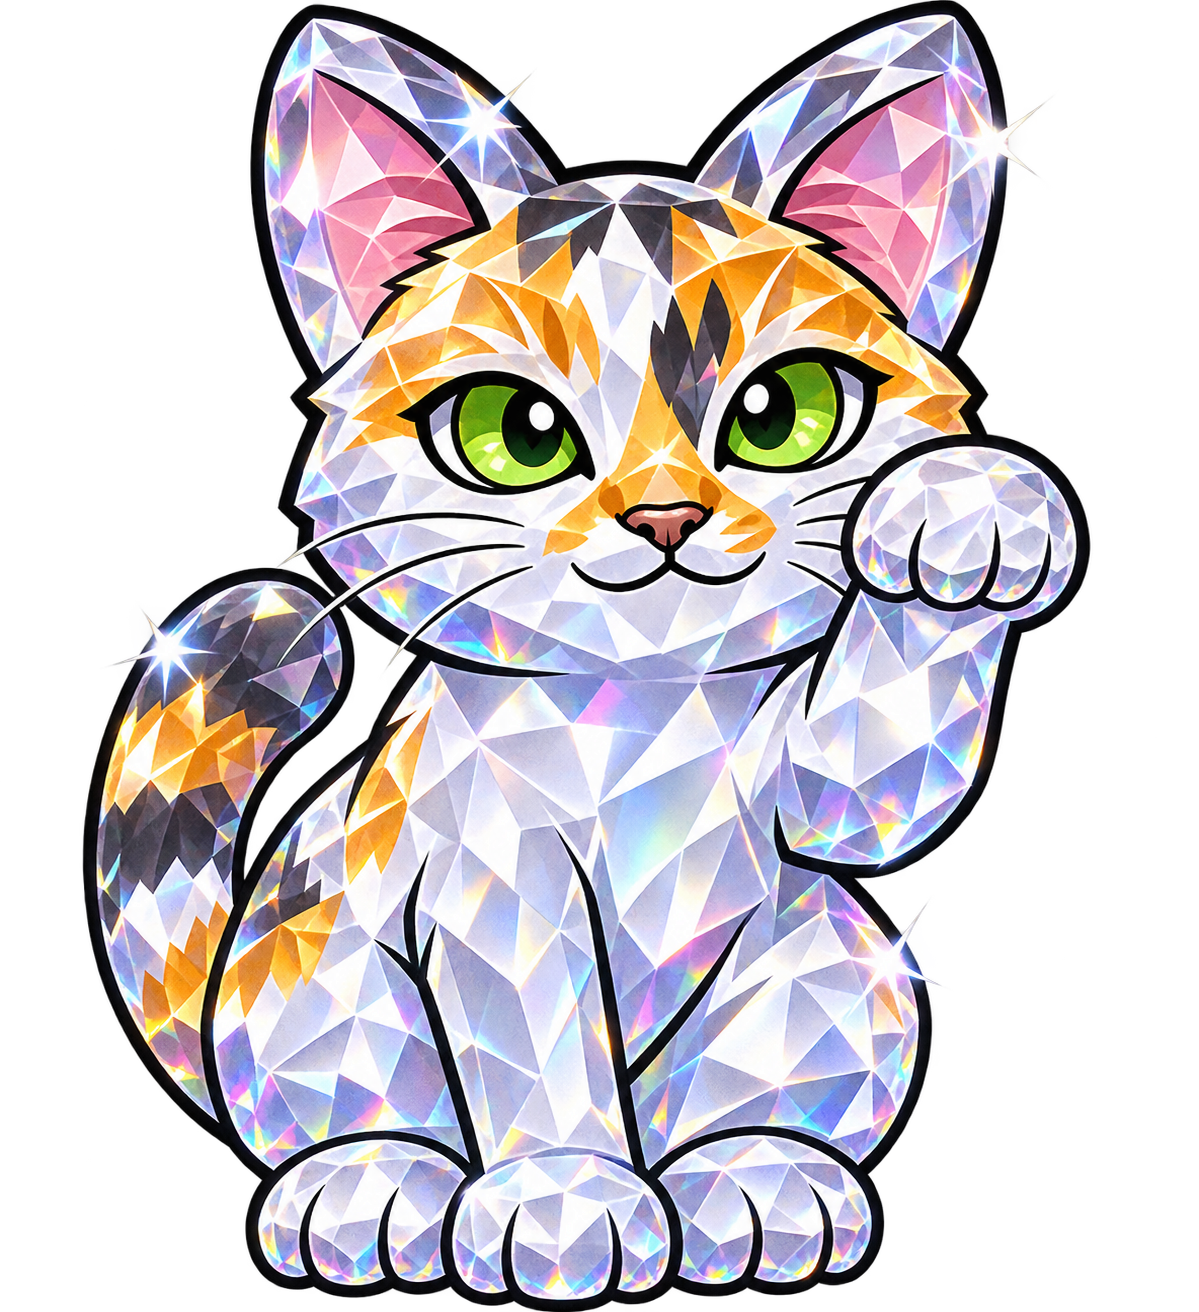
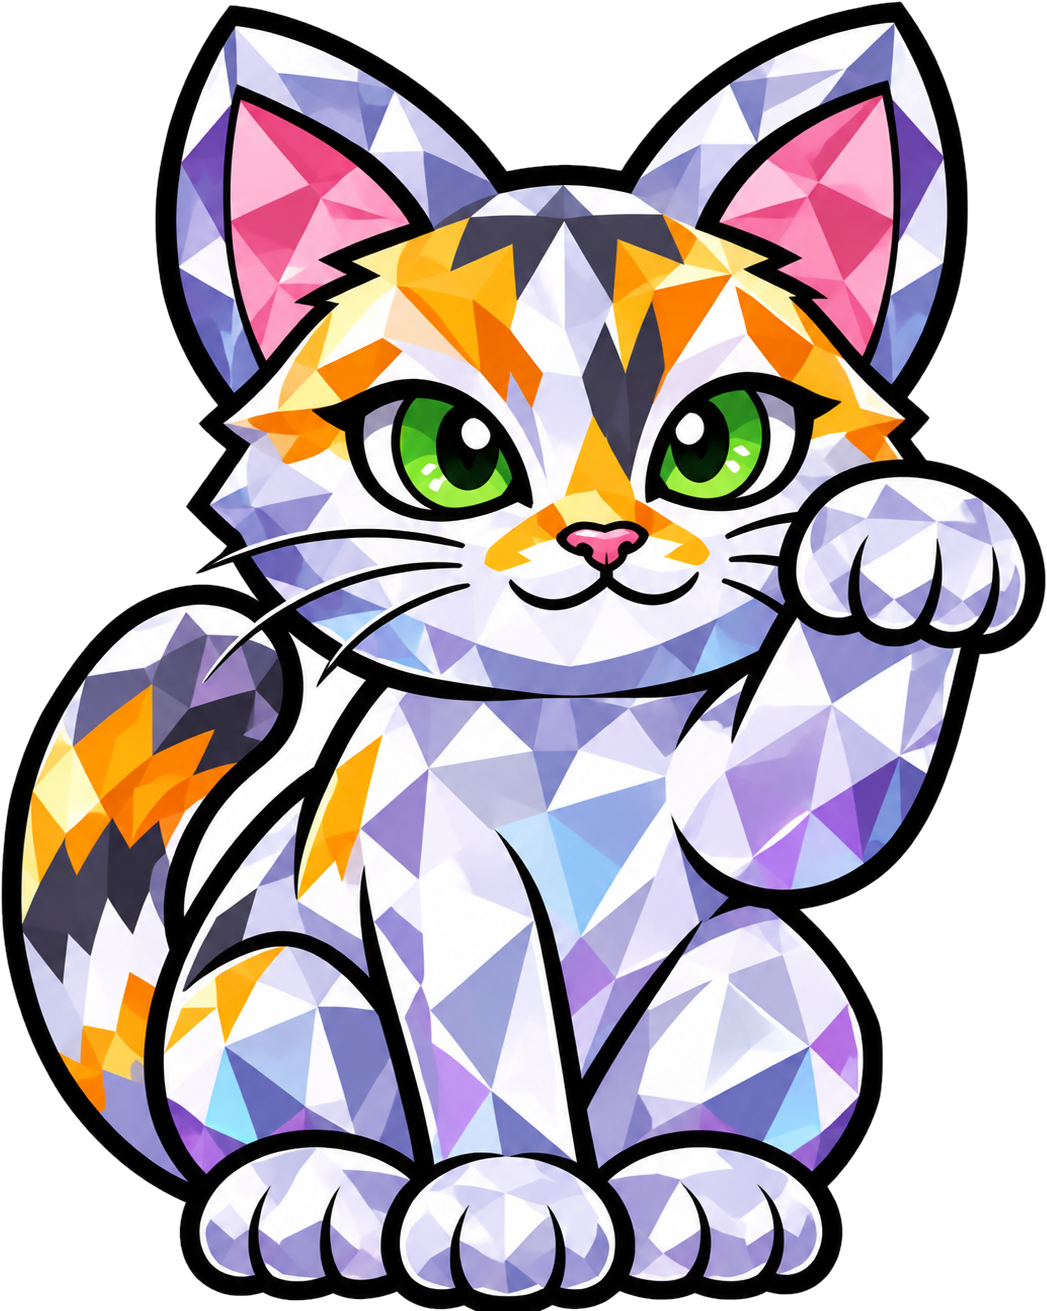
ダイヤモンドキャットの 絵を 新しく(企画者)
Claude-Session: https://claude.ai/code/session_01MXithgTc5umkveoyZShZHQ

diff --git a/docs/VISION.md b/docs/VISION.md
@@ -600,7 +600,7 @@
 - 2026-11-17 企画者「経験値は EXP に 統一」→ 画面の 文字は EXP（スクラッチ・ROYAL JACKPOT の ショップ・MONZ RUMBLE・冒険・麻雀・MYTHCLASH の ごほうび）。経験値スクラッチは「EXPスクラッチ」。
 - 2026-11-19 企画者「MONZ カード すぐ 終わって つまらない ので ジョーカー 2枚」「場の カードに 役が ついた 時 報酬（下は スリーカード）」「ロイヤルストレートフラッシュは 特別な アイテム」→ ジョーカーは 万能（いつでも 出せる・上に 何でも 出せる・役では 好きな カード）。直前に 出した 5枚で 役（同じ カードで 2回は もらわない・強く なれば もらえる）。MONZ コイン：スリーカード 50・ストレート 100・フラッシュ 150・フルハウス 300・フォーカード 500・ストレートフラッシュ 1,000・ロイヤル 3,000（1回の 上限とは べつ）。特別な アイテムは あとで 決める【未確定】。ジョーカーの 絵は 企画者の 絵（同日。2枚とも 同じ 絵）。
 - 2026-11-19 企画者「出した カードじゃ なくて 出す 前に 表示されてる カードが 役が できたら」→ 役は 手札の 5枚で 見る（配り終わった 時・補充した 時）。企画者「役と 配当は 表示してて 欲しい」→ 手札の 下に 役と 配当の 表。企画者「例みたいな 仮の カード 表示」→ 役ごとに 小さな 例の カード【仮】と ジョーカー＝好きな カード。企画者「常に 表示」「真ん中に 山札・出す カード・役の 表」「1列で 上が ロイヤル」「ジョーカーの 説明 いらない」「あくまで 補助」→ 真ん中の 段を 左から 山札・場札・役の 表（小さく）。手札は いちばん 下。同じ カードで 2回は もらわない・強く なれば もらえる。
-- 2026-11-19 企画者「ロイヤルストレートフラッシュの 景品は ダイヤモンドキャット」「お世話画面の アイテムの 家具に 入り ストリートの 家具 扱いで 置ける」「置いて おくと 1日の 0時に 経験値 1000 が 毎日 入る」→ street_diamondcat。置いた 日は 数え はじめ、0時を こえる たびに +1,000（閉じて いた 日数ぶんも。しまうと 数え なおし）。経験値は その時の MONZ に。絵は 企画者の 絵（同日。大きさ 0.85）。
+- 2026-11-19 企画者「ロイヤルストレートフラッシュの 景品は ダイヤモンドキャット」「お世話画面の アイテムの 家具に 入り ストリートの 家具 扱いで 置ける」「置いて おくと 1日の 0時に 経験値 1000 が 毎日 入る」→ street_diamondcat。置いた 日は 数え はじめ、0時を こえる たびに +1,000（閉じて いた 日数ぶんも。しまうと 数え なおし）。経験値は その時の MONZ に。絵は 企画者の 絵（同日。大きさ 0.85）。2026-11-23 企画者「ダイヤモンドキャットは これに」→ 三毛の 招き猫の 絵に（前の 絵は unused/furniture/street_diamondcat_v1.png）。
 - 2026-11-19 企画者「途中で 揃った 役は 最後に まとめて もらえる」→ 役が そろった 時は 表示だけ。ゲームオーバー（やめる も）の 時に まとめて MONZ コイン・ダイヤモンドキャット。結果に「役ボーナス」「ダイヤモンドキャット ×n」。企画者「途中で 閉じても 揃えた やつは あげて」→ そろう たびに 書いて おき、途中で 閉じた 時は 次に 開いた 時に もらう（src/core/cardPending.ts）。
 - 2026-11-19 企画者「ロイヤルストレートフラッシュは 3000 コイン あげないで 猫の 置物だけ」「ダイヤモンドキャットの イメージ画像は 入れて」「お世話画面の 時に ダイヤモンドから EXP 出そう」→ ロイヤルは コイン 0。役の 表と そろった 時に 猫の 絵。0時の EXP は お世話画面で 猫から「+1,000 EXP」と キラキラ（閉じて いた 時は 開いた 時に 出る）。
 - 2026-11-19 企画者「ロイヤルストレートフラッシュは ジョーカー 無しじゃ ないと カウント しない」→ ジョーカーで できた ロイヤルは ストレートフラッシュ（1,000）。遊び方に 1行。
